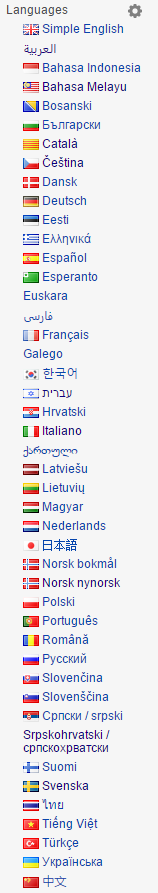
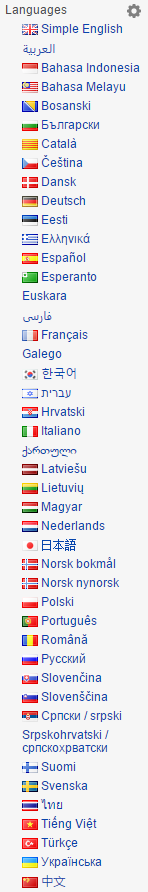
New screenshot

Changed region(s): [[0.1081, 0.0, 0.9459, 0.9989], [0.027, 0.0, 0.0541, 0.0303]]

diff --git a/wikipediaFlags.user.js b/wikipediaFlags.user.js
@@ -24,7 +24,7 @@
 						"hi", "ca", "simple", "eo"];
 
 	var flagLangCode = {
-		en: "gb", de: "de", es: "es", fr: "fr", it: "it", nl: "nl", ja: "jp", pl: "pl", ru: "ru", sv: "se",
+		en: "usgb", de: "de", es: "es", fr: "fr", it: "it", nl: "nl", ja: "jp", pl: "pl", ru: "ru", sv: "se",
 		vi: "vn", id: "id", ms: "my", cs: "cz", ko: "kr", hu: "hu", no: "no", pt: "pt", ro: "ro", sr: "rs",
 		fi: "fi", tr: "tr", uk: "ua", zh: "cn", bs: "ba", bg: "bg", da: "dk", et: "ee", el: "gr", he: "il",
 		hr: "hr", lv: "lv", lt: "lt", nn: "no", sk: "sk", sl: "si", th: "th",
@@ -38,8 +38,6 @@
 			langClass.insertBefore(element, langClass.firstChild);
 			element.innerHTML = '<img src="https://raw.githubusercontent.com/DavideViolante/Wikipedia-Flag-Icons/master/flags/'+flagLangCode[wikiLangCode[i]]+'.png"> ';
 		}
-		
 	}
 	
-
 })();
